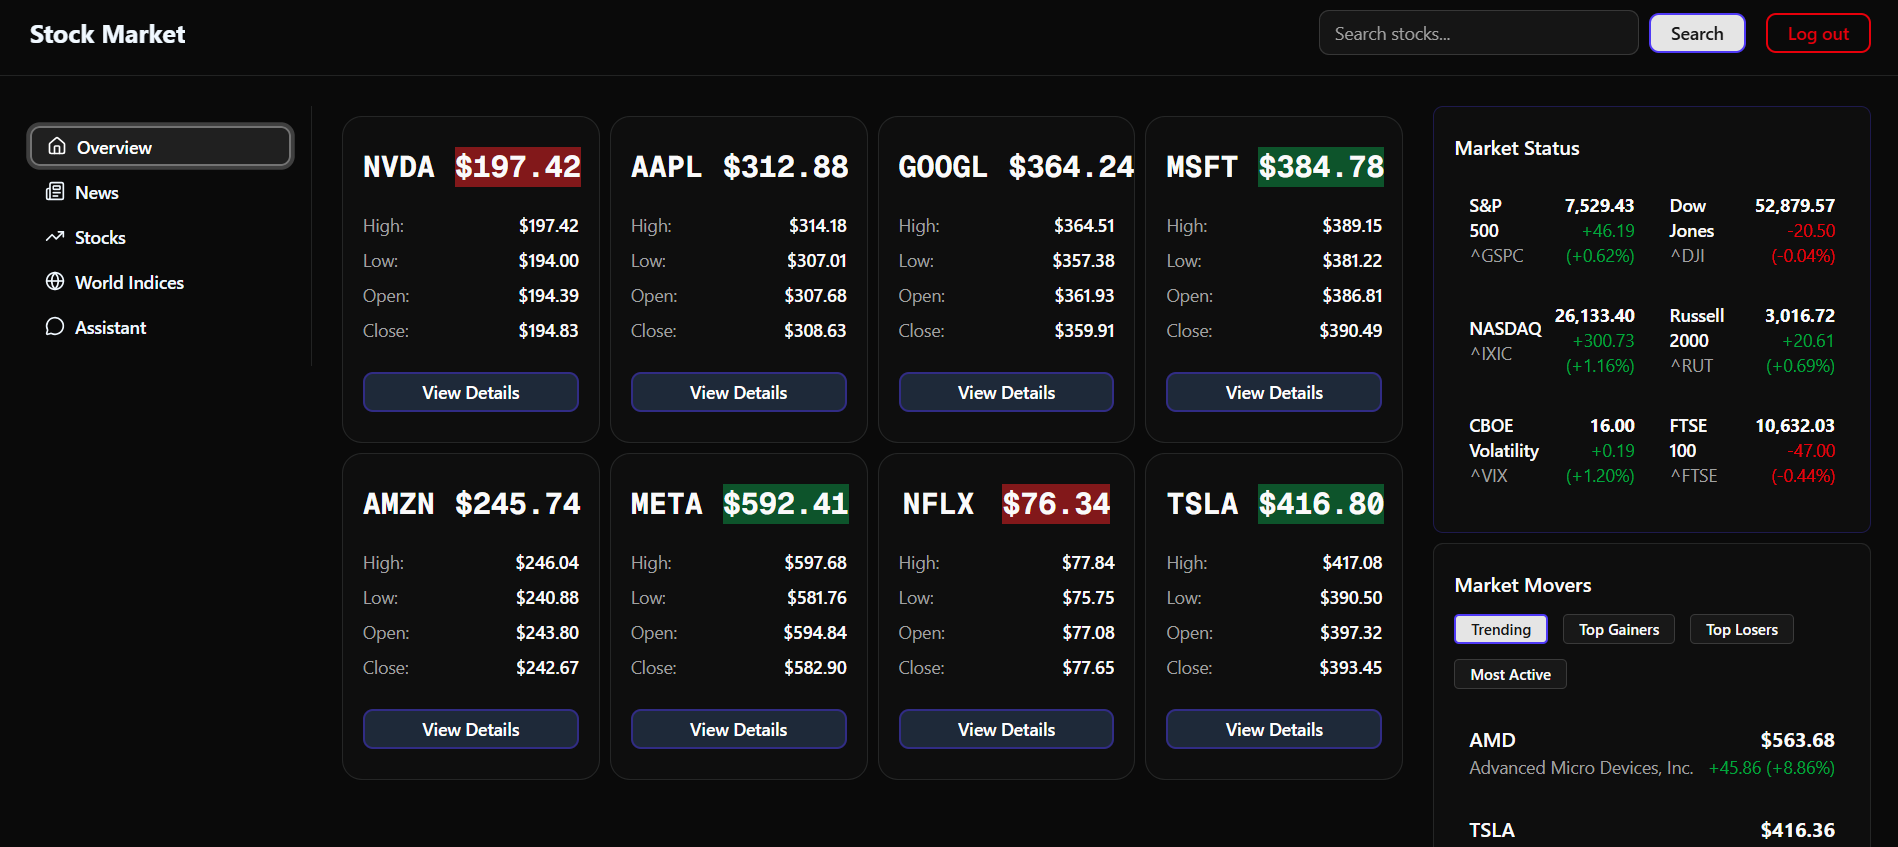
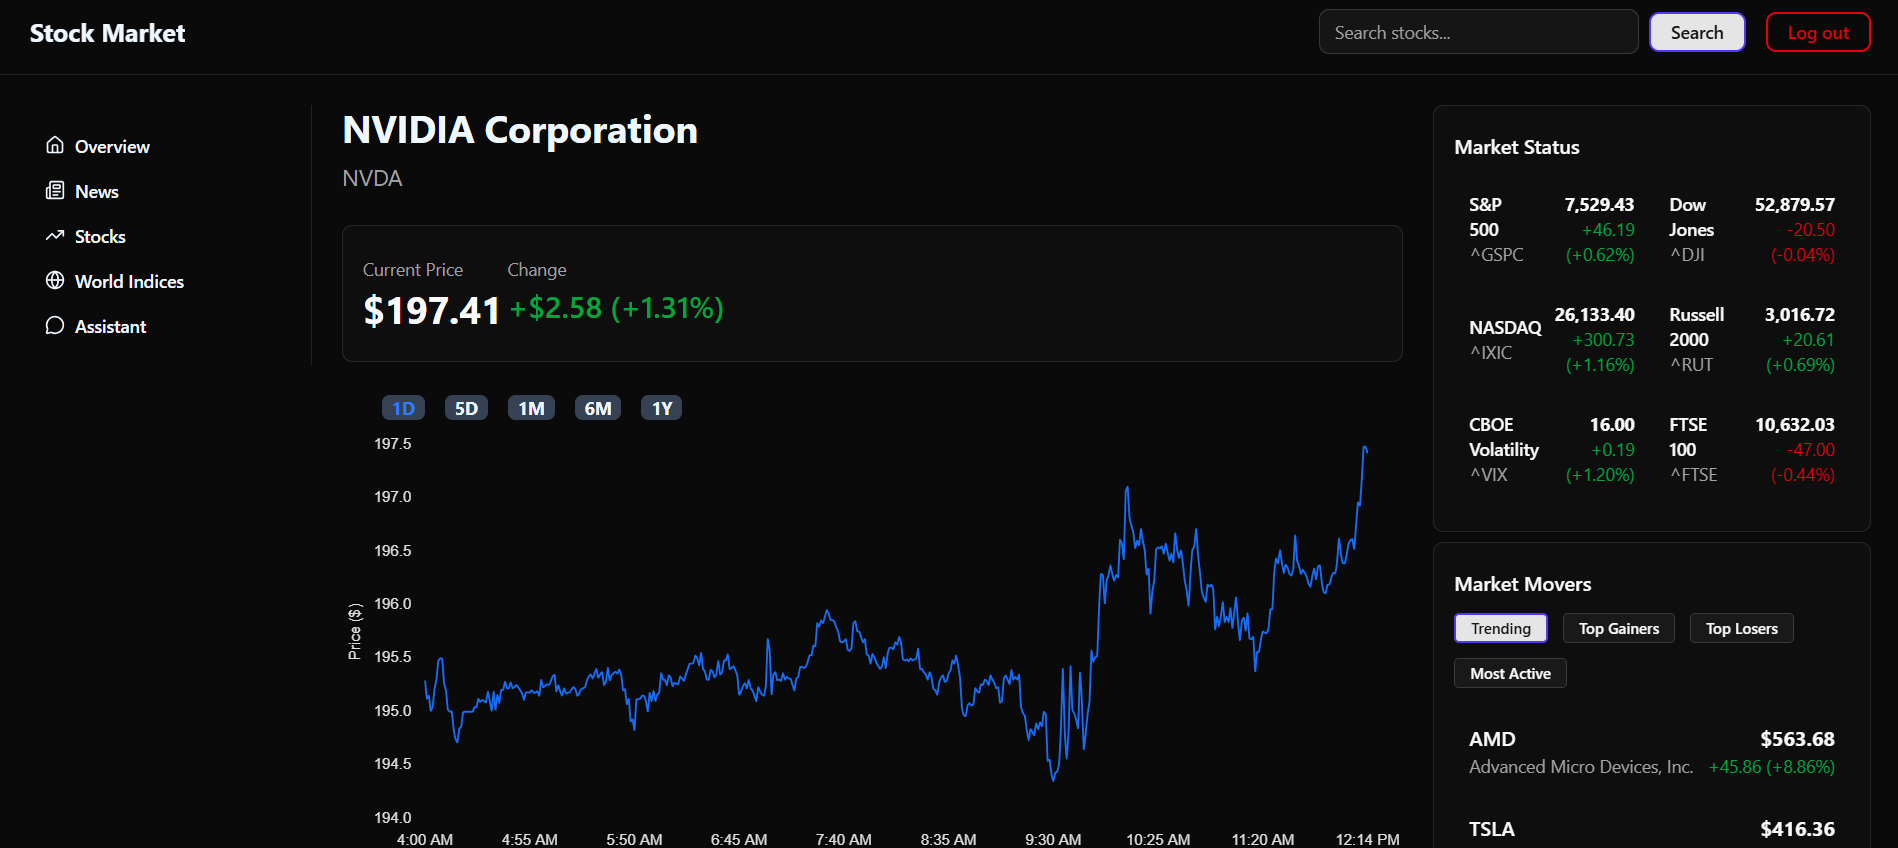
pics docs rewrite

diff --git a/README.md b/README.md
@@ -16,9 +16,9 @@ Deployed on **Vercel** (frontend) + **AWS EC2** (backend) + **Supabase** (Postgr
 
 ## Screenshots
 
-| App dashboard                                          | Portfolio manager                               |
-| ------------------------------------------------------ | ----------------------------------------------- |
-| ![Live stock dashboard](docs/images/app-dashboard.png) | ![Portfolio manager](docs/images/portfolio.png) |
+| Stock chart | Portfolio manager |
+|-------------|-------------------|
+| ![NVDA stock chart](docs/images/app-dashboard.png) | ![Portfolio list with performance](docs/images/portfolio.png) |
 
 | API metrics                                           | OpenAPI / Swagger                        |
 | ----------------------------------------------------- | ---------------------------------------- |

diff --git a/docs/images/README.md b/docs/images/README.md
@@ -5,7 +5,7 @@ Production screenshots for the root README and documentation.
 | File | Description |
 |------|-------------|
 | `demo.gif` | Short screen recording of the live app |
-| `app-dashboard.png` | Live stock overview with real-time prices |
-| `portfolio.png` | Portfolio manager with holdings and performance |
+| `app-dashboard.png` | Stock detail page with Chart.js price graph (NVDA) |
+| `portfolio.png` | My Portfolios list with multiple portfolios and gain/loss |
 | `api-metrics.png` | FastAPI metrics dashboard (latency, message counters) |
 | `swagger.png` | OpenAPI / Swagger documentation |